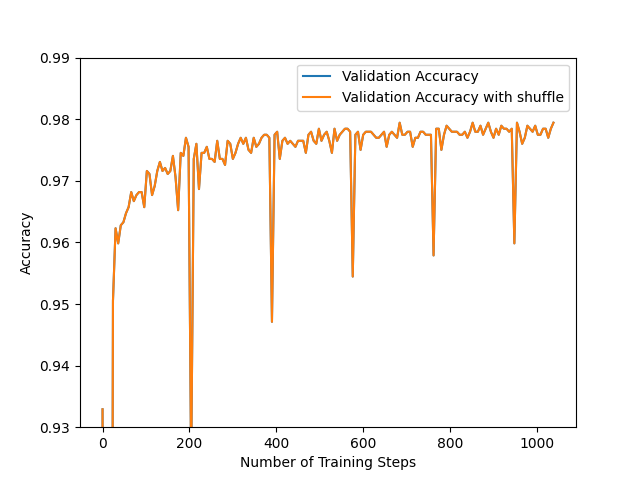
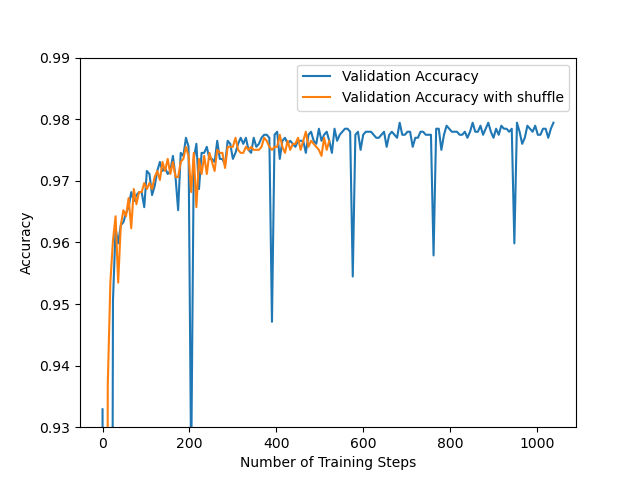
task2e update shuffling

diff --git a/assignment1/utils.py b/assignment1/utils.py
@@ -2,6 +2,7 @@ from typing import Generator
 import mnist
 import numpy as np
 import matplotlib.pyplot as plt
+np.random.seed(0)
 
 
 def batch_loader(
@@ -24,11 +25,11 @@ def batch_loader(
         num_batches = int(np.ceil(len(X) / batch_size))
     indices = list(range(len(X)))
 
+    if shuffle: np.random.shuffle(indices)
+
     for i in range(num_batches):
         # select a set of indices for each batch of samples
         batch_indices = indices[i*batch_size:(i+1)*batch_size]
-        if shuffle: # 2e: shuffle the dataset # TODO: seems weird that it doesn't really show a difference
-            np.random.shuffle(batch_indices)
         x = X[batch_indices]
         y = Y[batch_indices]
         # return both images (x) and labels (y)
